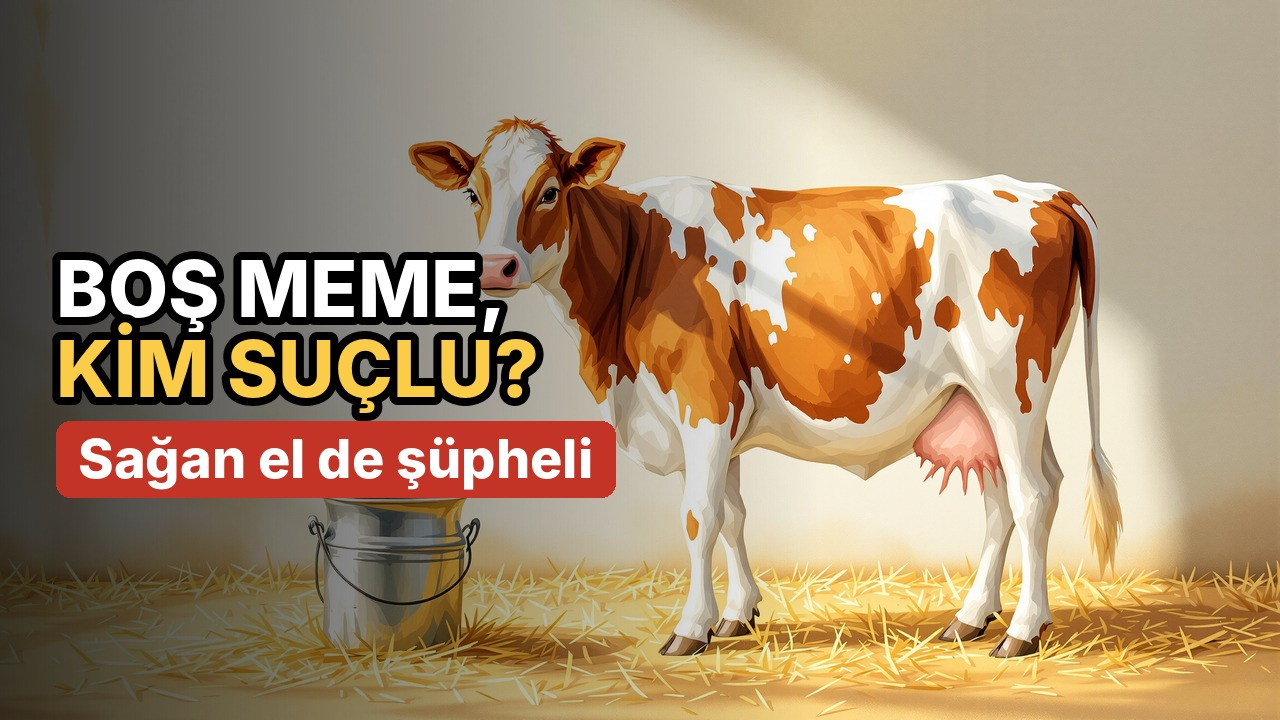
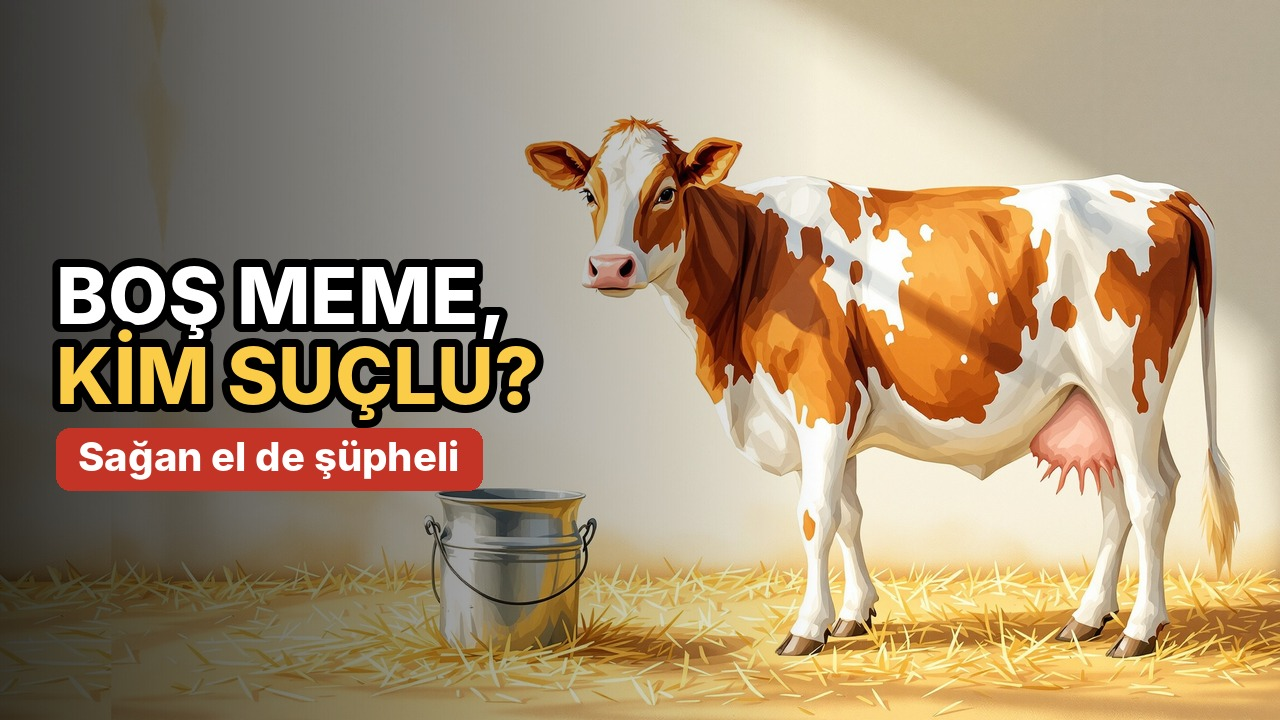
Yılan–inek: kalite kontrol düzeltmeleri (kapak C, kirpi Shorts kadrajları, açıklama); ders
Claude-Session: https://claude.ai/code/session_01BaFTGLb3DUQPcLQVA6aDtg

diff --git a/.claude/skills/avludaki-komsular-yeni-video/references/dersler.md b/.claude/skills/avludaki-komsular-yeni-video/references/dersler.md
@@ -270,3 +270,4 @@ Her video sonrası patron, denetçilerin puan kırdığı yerleri buraya ölçü
 - (23 Kasım, kesin kural) Flux'ta olumsuz istem YOKTUR: "no snake" yazmak yılan çizdirir (2. turda 18 adaydan 9'unda yılan/ip/hortum). Konu hayvanı istenmeyen karede o hayvanın adı istemde HİÇ geçmez; sahne olumlu ve az eşyayla tarif edilir (ip, çanta, hortum gibi uzun nesneler sayılmaz). 3. turda bu kuralla 10 adayın hiçbirinde yılan çıkmadı.
 - (23 Kasım, yılan–inek sesi) Gemini sesinde iki modelde de bozulan kelimeler: "sağılan sütü" → "sağlam/sağlan sütü", "sağdığını" → "sığadığını", "balık yiyor" → "balıkıyor", "memede" → "Mehmet'e", cümle başı "Buzağı annesinin" → "Buzağa". Yalın "meme", "memeden", "buzağı" (cümle içi) ve "yılanlar" large-v3'te doğru. Bu kelimeleri ekli/bitişik hâlde cümle başına ya da benzer kelimeye kayabilecek yere koyma; yeniden yaz.
 - (23 Kasım) Açıklama 5.000 karakter sınırı: gerçek fotoğraf atıfları kısa biçimde ve tekrarsız yazılıyor (video.py); senaryo açıklaması cevabı baştan veren paragraf içermez.
+- (23 Kasım, kalite kontrol) Kapak yazısı hayvanın burnuna yaklaşıyorsa yazıyı küçültmek yetmeyebilir: kapak görselini boş tarafından genişletip hayvanı kaydır (kapak_c sola duvar eklendi). Shorts'ta klipte hareket eden hayvan kadrajdan çıkabilir; o cümlede sabit görsel + bitiş w/y kullan. Shorts ilk karesi için karanlık/flaşlı gerçek fotoğraf yerine aydınlık olanı seç.

diff --git a/hayvan-kanali/kanal/onaylar/09-yilan-inek.md b/hayvan-kanali/kanal/onaylar/09-yilan-inek.md
@@ -18,3 +18,5 @@
 - Ses: cümle 11 ("19." ↔ "on dokuzuncu" eşleştirmesi seslendir_bulut.sade'ye eklendi), cümle 55 "sağdığını" okunuş hatası nedeniyle "yılanın inekten süt emdiğini…" olarak yeniden yazıldı.
 - Son kontrol (23 Kasım): uzun 324 sn, 61/61; s1, s2, s3 GEÇTİ. Ses düzeltmeleri: sağılan/sağdığını/balık yiyor/memede/kirpiyi/huzursuz cümleleri yeniden yazıldı; açıklama 4.994 karakter.
 - Metin editörü son denetim (23 Kasım): **ONAY**. Puan: kanca 8, anlatim 8, baslik 8, shorts 8.
+- Kalite kontrol (Tur 1, 23 Kasım): **RET**. Puan: ses 8, gorsel 6, teknik 8. Gerekçeler: kapak_C yazısı ineğin burnuna yakın (TEKRARLANAN KUSUR, baykuş dersi), s2'de yılan başı kadrajdan çıkıyor, s2 ilk kare karanlık; açıklama 4.995/5.000.
+- Düzeltme: kapak_c görseli sola genişletildi, yazı daraltıldı; s2 ilk ve 4. kare gündüz çekilmiş gerçek kirpi (iNaturalist), yılan sahnesi sabit görsel; açıklama kısaltıldı.
